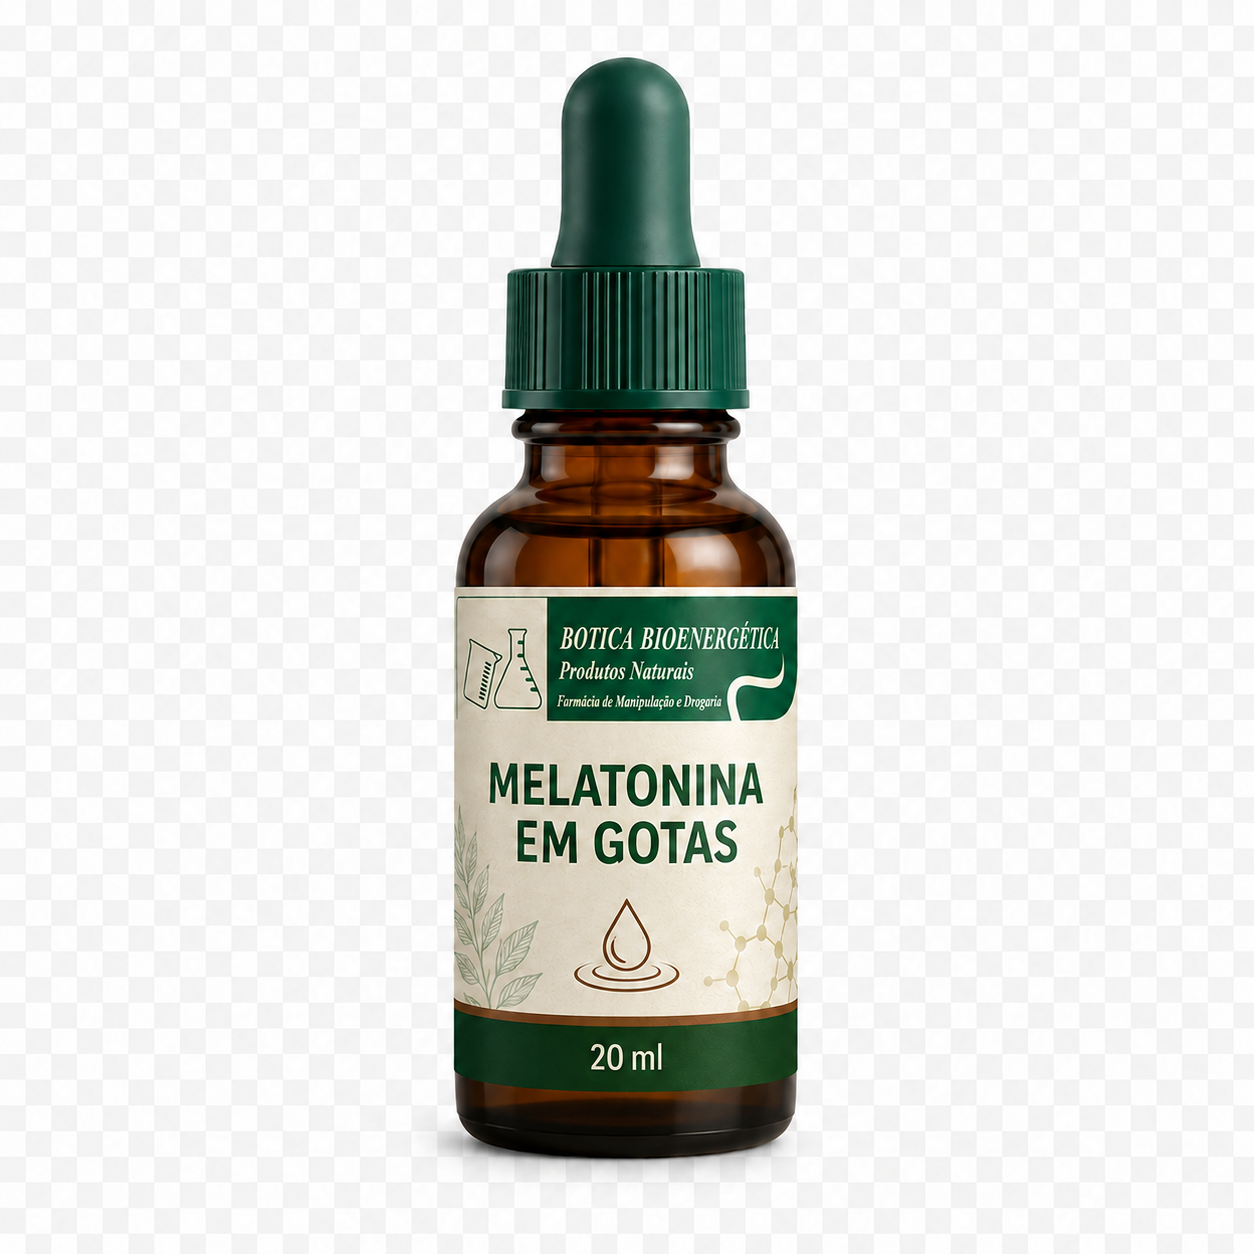
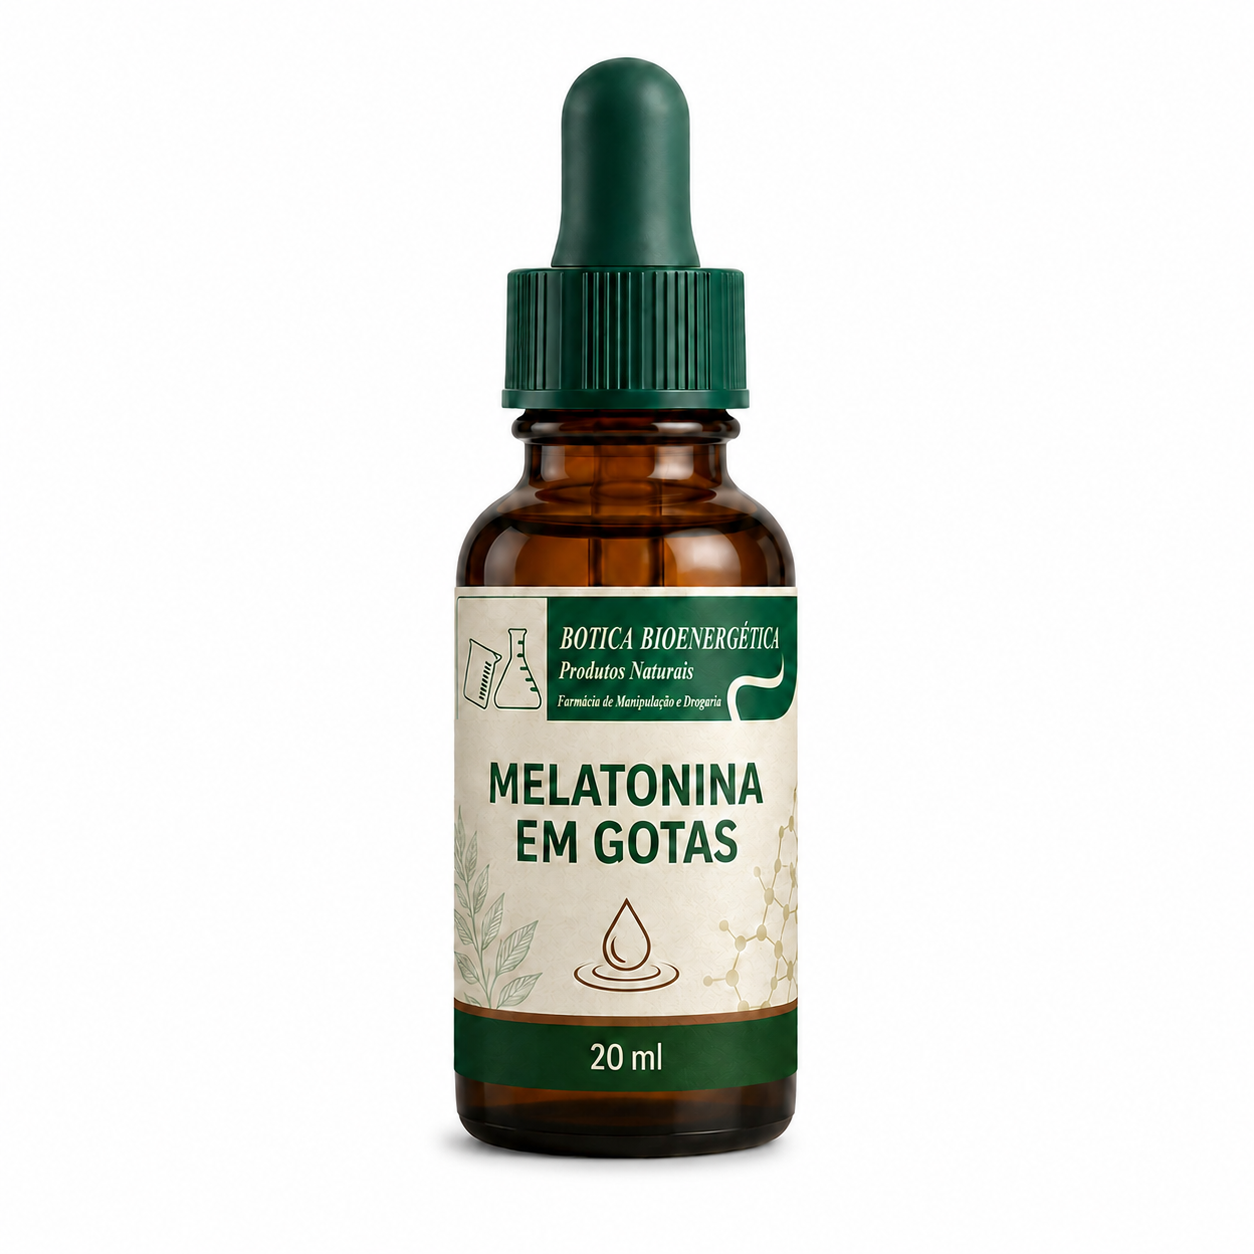
atualização

Changed region(s): [[0.4354, 0.4976, 0.622, 0.5598], [0.4665, 0.6531, 0.5598, 0.6842], [0.3732, 0.5287, 0.4043, 0.5598]]

diff --git a/app/shop-polish.css b/app/shop-polish.css
@@ -752,6 +752,42 @@ html[data-theme="dark"] body .trust-row article:nth-child(n){
   color:#e8f1eb!important;
   box-shadow:none!important;
 }
+
+/* Final layout corrections: policy hero, product backgrounds and legal footer. */
+body .policy-hero{
+  position:relative!important;top:auto!important;height:auto!important;min-height:330px!important;
+  padding:70px max(6vw,40px)!important;display:grid!important;
+  grid-template-columns:minmax(0,1.2fr) minmax(300px,.8fr)!important;
+  align-items:center!important;gap:70px!important;
+}
+body .policy-hero>div{min-width:0}
+body .policy-hero h1{max-width:760px!important;margin:14px 0 0!important;font-size:clamp(42px,5.4vw,72px)!important;line-height:.98!important}
+body .policy-hero p{max-width:560px!important;margin:0!important;font-size:16px!important;line-height:1.7!important}
+
+.catalog-product-image{background:#fff!important}
+.card .photo:has(.catalog-product-image),.product-page-visual:has(.catalog-product-image){background:#fff!important}
+.product-image-dark{display:none!important}
+html[data-theme="dark"] .product-image-light{display:none!important}
+html[data-theme="dark"] .product-image-dark{display:block!important;background:#101713!important}
+html[data-theme="dark"] .card .photo:has(.catalog-product-image),html[data-theme="dark"] .product-page-visual:has(.catalog-product-image){background:#101713!important}
+html[data-theme="dark"] .card .photo,
+html[data-theme="dark"] .product-page-visual{background:#101713!important}
+
+footer .footer-legal{
+  grid-column:1/-1;display:grid!important;grid-template-columns:repeat(4,minmax(0,1fr))!important;
+  gap:18px!important;padding-top:28px!important;border-top:1px solid rgba(220,232,225,.22);
+  color:#dce8e1;text-align:left!important;font-size:12px!important;line-height:1.6!important;
+}
+footer .footer-legal>div{display:flex;flex-direction:column;gap:3px}
+footer .footer-legal address{margin:0;font-style:normal}
+footer .footer-legal strong{color:#b9d99a;font-size:10px;letter-spacing:.08em;margin-bottom:4px}
+@media(max-width:900px){footer .footer-legal{grid-template-columns:repeat(2,minmax(0,1fr))!important}}
+@media(max-width:760px){
+  body .policy-hero{min-height:0!important;padding:48px 22px!important;grid-template-columns:1fr!important;gap:22px!important}
+  body .policy-hero h1{font-size:44px!important}
+  body .policy-hero p{font-size:15px!important}
+}
+@media(max-width:560px){footer .footer-legal{grid-template-columns:1fr!important}}
 html[data-theme="dark"] body .trust-row article>b{
   background:#294033!important;
   border-color:#54705d!important;

diff --git a/app/politica-de-privacidade/page.tsx b/app/politica-de-privacidade/page.tsx
@@ -1,5 +1,5 @@
 export default function PoliticaPrivacidadePage() {
-  return <main className="policy-page"><header className="policy-hero"><small>PRIVACIDADE</small><h1>Política de privacidade e cookies</h1><p>Saiba como a Botica utiliza as informações necessárias para oferecer compras, atendimento e comunicações.</p></header><div className="policy-layout"><aside><b>Nesta página</b><a href="#dados">Dados utilizados</a><a href="#cookies">Cookies</a><a href="#comunicacoes">Comunicações</a><a href="#direitos">Seus direitos</a></aside><article>
+  return <main className="policy-page"><header className="policy-hero"><div><small>PRIVACIDADE</small><h1>Política de privacidade e cookies</h1></div><p>Saiba como a Botica utiliza as informações necessárias para oferecer compras, atendimento e comunicações.</p></header><div className="policy-layout"><aside><b>Nesta página</b><a href="#dados">Dados utilizados</a><a href="#cookies">Cookies</a><a href="#comunicacoes">Comunicações</a><a href="#direitos">Seus direitos</a></aside><article>
     <section id="dados"><span>01</span><div><h2>Dados utilizados</h2><p>Durante o cadastro e a compra, podemos utilizar nome, e-mail, telefone, CPF, endereço e informações do pedido para processar pagamento, entrega, suporte, troca, devolução ou reembolso.</p></div></section>
     <section id="cookies"><span>02</span><div><h2>Cookies</h2><p>Cookies necessários mantêm login, carrinho, segurança e preferências. Cookies opcionais de análise somente devem ser utilizados após sua autorização. Você pode recusar os opcionais sem impedir as funções essenciais da loja.</p></div></section>
     <section id="comunicacoes"><span>03</span><div><h2>Comunicações</h2><p>Novidades e ofertas são enviadas somente para endereços cadastrados voluntariamente. O recebimento pode ser cancelado a qualquer momento pelo canal de atendimento.</p></div></section>

diff --git a/app/produto/[id]/page.tsx b/app/produto/[id]/page.tsx
@@ -3,7 +3,7 @@ import { AddProduct } from "@/components/add-product";
 import { criarClienteServidor } from "@/lib/supabase/server";
 import type { Produto } from "@/lib/types";
 import Link from "next/link";
-import { comImagemCatalogo } from "@/lib/product-images";
+import { comImagemCatalogo, imagemCatalogoEscura } from "@/lib/product-images";
 
 const moeda = (valor: number) =>
   Number(valor).toLocaleString("pt-BR", { style: "currency", currency: "BRL" });
@@ -14,13 +14,17 @@ export default async function ProdutoPage({ params }: { params: Promise<{ id: st
   const { data } = await supabase.from("produtos").select("*").eq("id", id).single();
   if (!data) notFound();
   const produto = comImagemCatalogo(data as Produto);
+  const imagemEscura = imagemCatalogoEscura(produto.nome);
 
   return (
     <><nav className="product-breadcrumb" aria-label="Navegação estrutural"><Link href="/">Início</Link><span>›</span><Link href={`/?categoria=${encodeURIComponent(produto.categoria)}#produtos`}>{produto.categoria}</Link><span>›</span><b>{produto.nome}</b></nav><section className="product-page">
       <div className="product-page-visual">
         {produto.imagem_url ? (
           // eslint-disable-next-line @next/next/no-img-element
-          <img src={produto.imagem_url} alt={produto.nome} />
+          <>
+            <img className={imagemEscura ? "product-image-light catalog-product-image" : "catalog-product-image"} src={produto.imagem_url} alt={produto.nome} />
+            {imagemEscura && <img className="product-image-dark catalog-product-image" src={imagemEscura} alt="" aria-hidden="true" />}
+          </>
         ) : (
           <div className="bottle large"><i /><b>BOTICA</b><small>{produto.categoria}</small></div>
         )}

diff --git a/app/layout.tsx b/app/layout.tsx
@@ -32,10 +32,10 @@ export default function RootLayout({ children }: { children: React.ReactNode }) 
             <div><b>ATENDIMENTO</b><a href="mailto:raphad2712@gmail.com?subject=Atendimento%20Botica">Fale conosco</a><a href="/#receita">Envie sua receita</a><a href="/minha-conta">Meus pedidos</a><a href="/politica-de-trocas-e-devolucoes">Trocas e devoluções</a></div>
             <div><b>FORMAS DE PAGAMENTO</b><p>PIX • VISA • MASTERCARD</p></div>
             <div className="footer-legal" aria-label="Informações legais da Botica Bioenergética">
-              <p><strong>FARMACÊUTICO RESPONSÁVEL</strong> Dr. Flávio Luís Alves — CRF-SP 42216</p>
-              <p><strong>CEVS:</strong> 355030801-477-008234-1-4 <span aria-hidden="true">•</span> <strong>Autorização MS:</strong> 7.40921.9 <span aria-hidden="true">•</span> <strong>Autorização CRF-SP:</strong> 57419</p>
-              <p><strong>CNPJ:</strong> 13.013.360/0001-70</p>
-              <address>Rua Sol da Meia-Noite, 990 — Jardim Maia — São Miguel Paulista — São Paulo/SP — CEP 08180-050</address>
+              <div><strong>FARMACÊUTICO RESPONSÁVEL</strong><span>Dr. Flávio Luís Alves</span><span>CRF-SP 42216</span></div>
+              <div><strong>LICENÇAS E AUTORIZAÇÕES</strong><span>CEVS: 355030801-477-008234-1-4</span><span>MS: 7.40921.9 • CRF-SP: 57419</span></div>
+              <div><strong>DADOS DA EMPRESA</strong><span>CNPJ: 13.013.360/0001-70</span></div>
+              <div><strong>ENDEREÇO</strong><address>Rua Sol da Meia-Noite, 990<br />Jardim Maia — São Miguel Paulista<br />São Paulo/SP — CEP 08180-050</address></div>
             </div>
             </footer>
             <SupportWidget />

diff --git a/components/product-card.tsx b/components/product-card.tsx
@@ -5,6 +5,7 @@ import { useState } from "react";
 import type { Produto } from "@/lib/types";
 import { useCart } from "./cart-provider";
 import { useFavorites } from "./favorites-provider";
+import { imagemCatalogoEscura } from "@/lib/product-images";
 
 const moeda = (valor: number) =>
   Number(valor).toLocaleString("pt-BR", { style: "currency", currency: "BRL" });
@@ -13,6 +14,7 @@ export function ProductCard({ produto }: { produto: Produto }) {
   const { adicionar } = useCart();
   const { estaFavorito, alternarFavorito } = useFavorites();
   const [adicionado, setAdicionado] = useState(false);
+  const imagemEscura = imagemCatalogoEscura(produto.nome);
 
   function adicionarProduto() {
     adicionar(produto);
@@ -31,7 +33,10 @@ export function ProductCard({ produto }: { produto: Produto }) {
         {!!desconto && <span className="discount-badge">-{desconto}%</span>}
         {produto.imagem_url ? (
           // eslint-disable-next-line @next/next/no-img-element
-          <img src={produto.imagem_url} alt={produto.nome} />
+          <>
+            <img className={imagemEscura ? "product-image-light catalog-product-image" : "catalog-product-image"} src={produto.imagem_url} alt={produto.nome} />
+            {imagemEscura && <img className="product-image-dark catalog-product-image" src={imagemEscura} alt="" aria-hidden="true" />}
+          </>
         ) : (
           <div className="jar"><i /><b>BOTICA</b><small>{produto.categoria}</small></div>
         )}

diff --git a/lib/product-images.ts b/lib/product-images.ts
@@ -10,6 +10,16 @@ const imagensCatalogo: Array<[RegExp, string]> = [
   [/serum.*vitamina c/, "/produtos/serum-vitamina-c-30ml.png"],
 ];
 
+const imagensCatalogoEscuras: Array<[RegExp, string]> = [
+  [/creatina monohidratada/, "/produtos/dark/creatina-monohidratada-300g.png"],
+  [/melatonina.*gotas/, "/produtos/dark/melatonina-gotas-20ml.png"],
+  [/floral rescue/, "/produtos/dark/floral-rescue-30ml.png"],
+  [/vitamina b12/, "/produtos/dark/vitamina-b12-1000mcg.png"],
+  [/vitamina d3/, "/produtos/dark/vitamina-d3-2000ui.png"],
+  [/psyllium/, "/produtos/dark/psyllium-200g.png"],
+  [/serum.*vitamina c/, "/produtos/dark/serum-vitamina-c-30ml.png"],
+];
+
 function normalizar(texto: string) {
   return texto.normalize("NFD").replace(/[\u0300-\u036f]/g, "").toLowerCase();
 }
@@ -17,6 +27,11 @@ function normalizar(texto: string) {
 export function imagemCatalogo(nome: string, imagemAtual?: string | null) {
   const nomeNormalizado = normalizar(nome);
   return imagensCatalogo.find(([padrao]) => padrao.test(nomeNormalizado))?.[1] ?? imagemAtual ?? null;
+}
+
+export function imagemCatalogoEscura(nome: string) {
+  const nomeNormalizado = normalizar(nome);
+  return imagensCatalogoEscuras.find(([padrao]) => padrao.test(nomeNormalizado))?.[1] ?? null;
 }
 
 export function comImagemCatalogo(produto: Produto): Produto {
